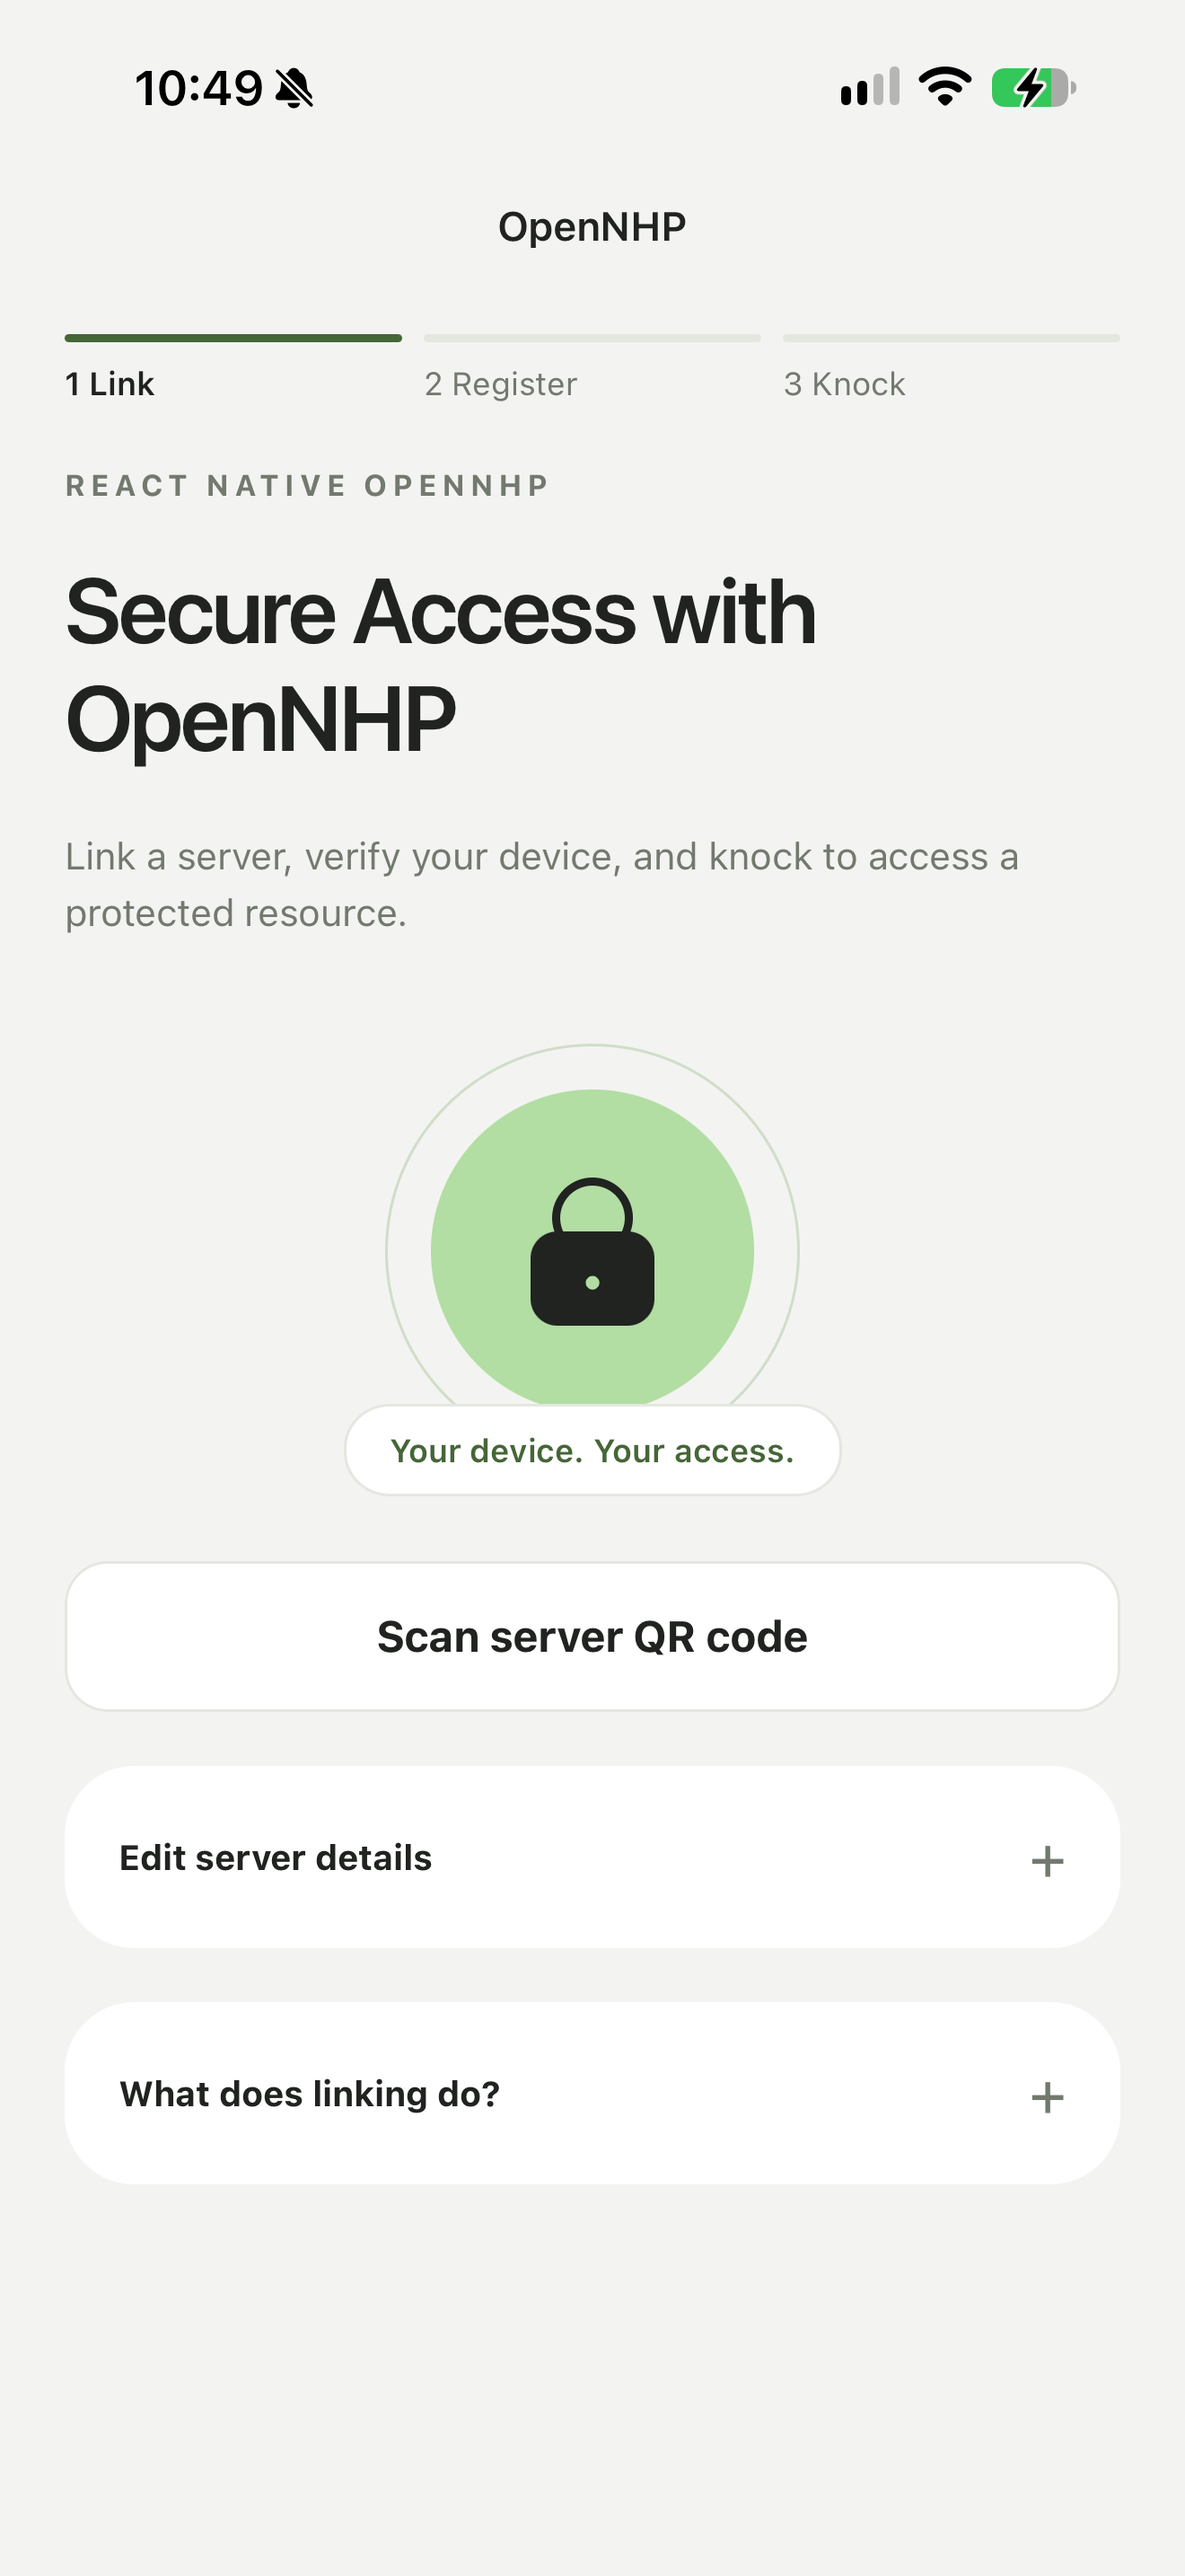
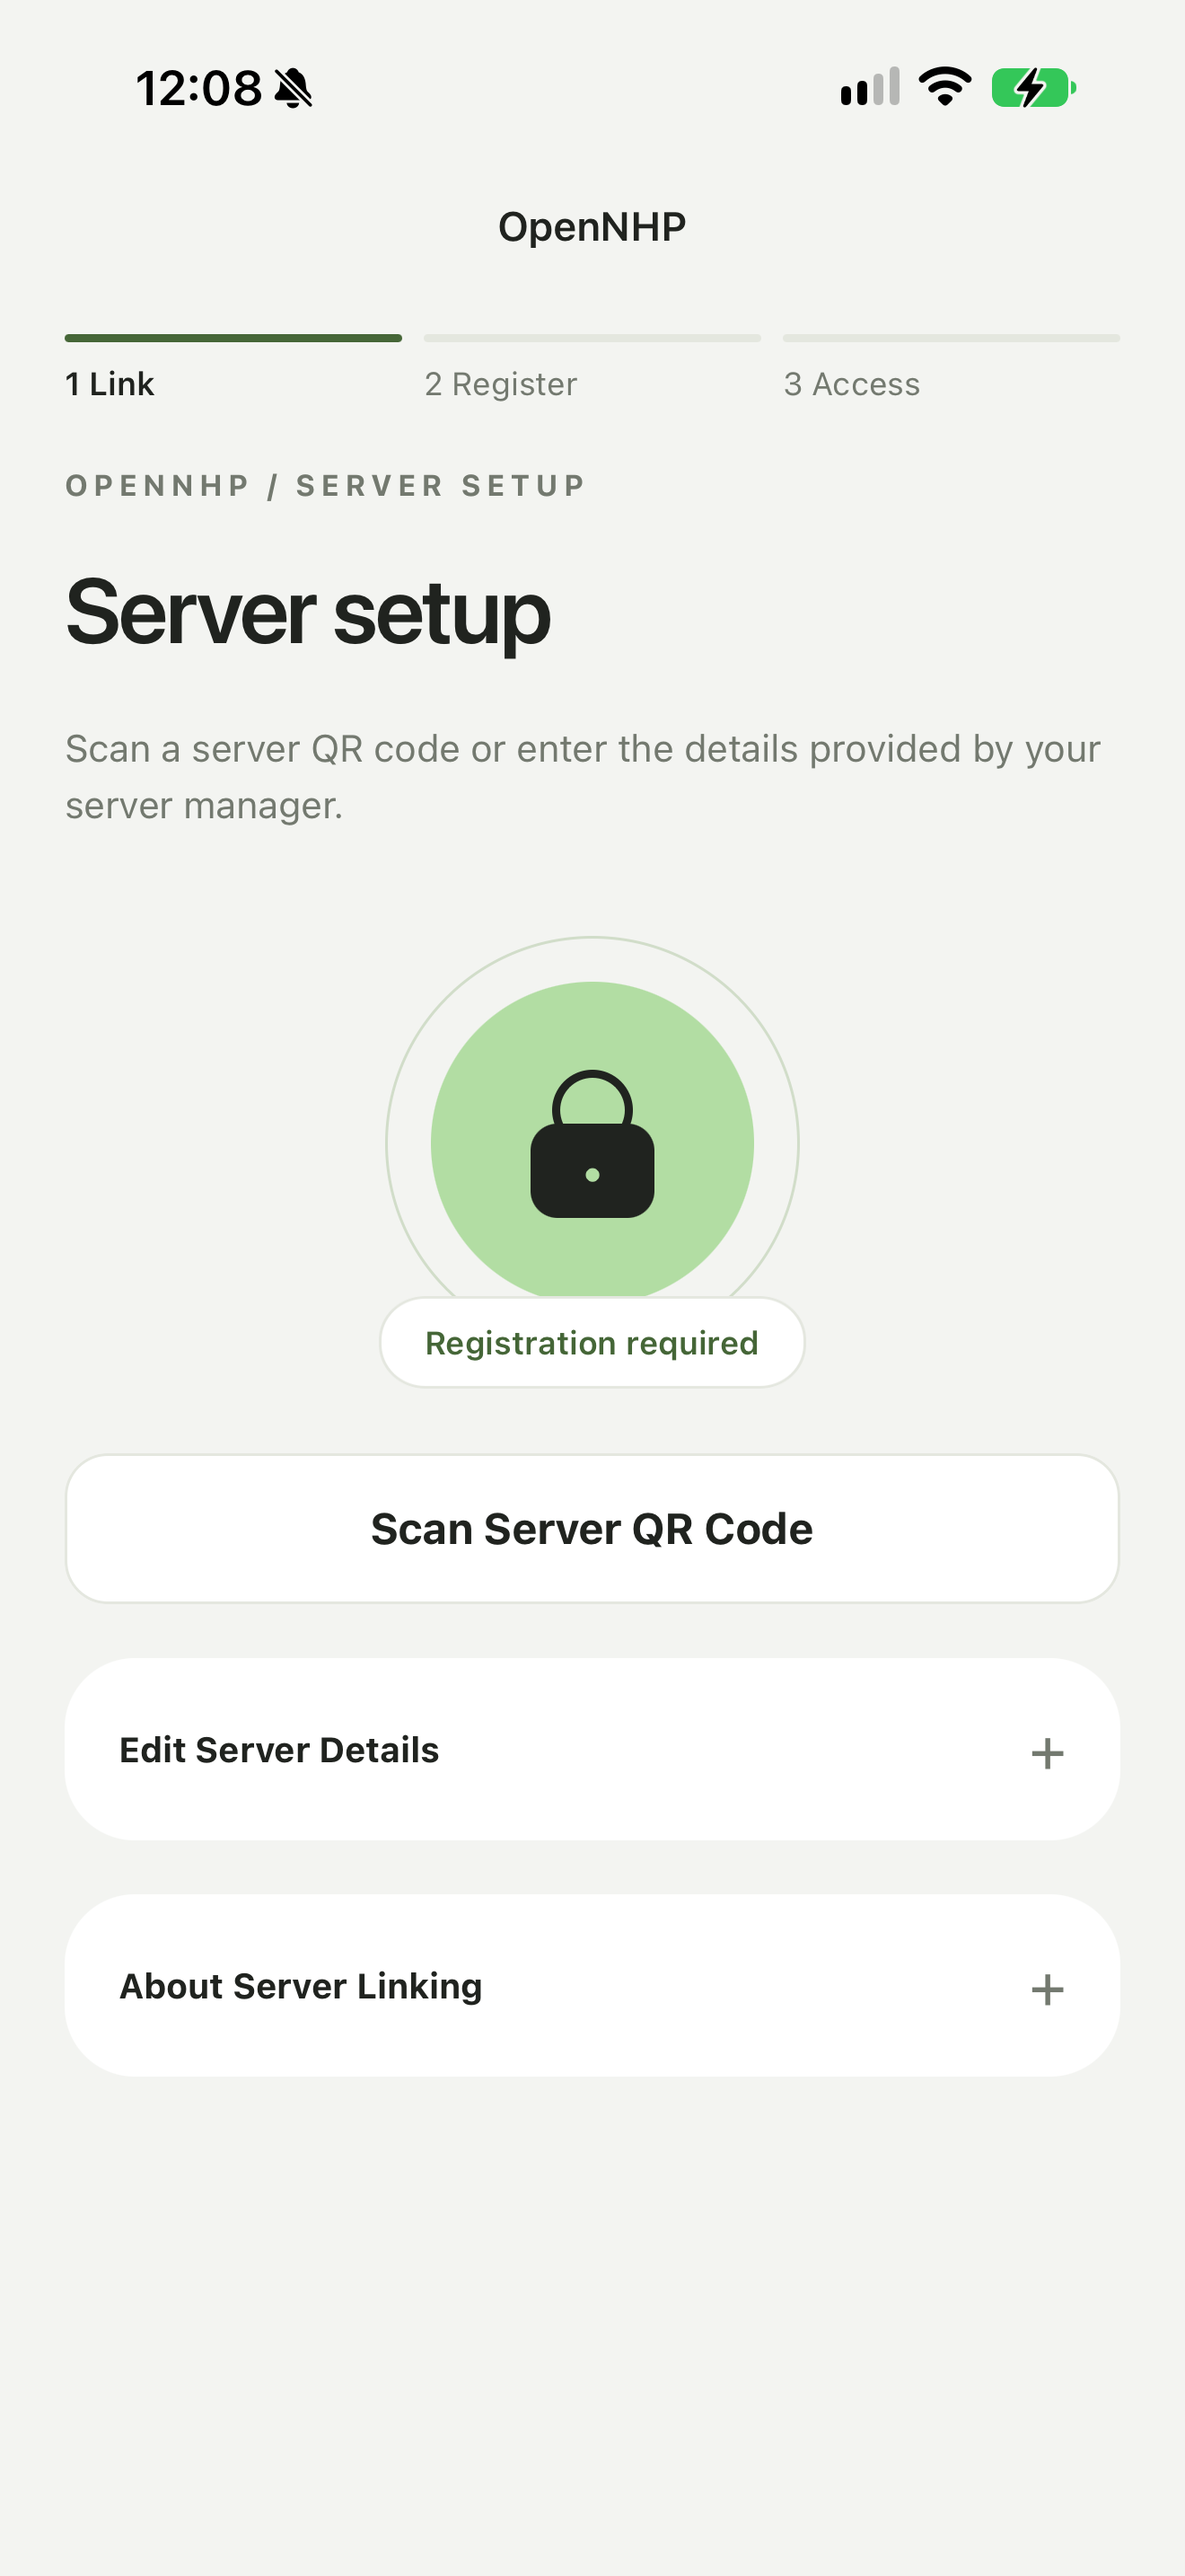
Better clean up

diff --git a/README.md b/README.md
@@ -39,7 +39,7 @@ Link a server, choose a registration method, and register the device with an ema
   </tbody>
 </table>
 
-<sub>Screenshots show an earlier demo build; current labels may differ. Select an image to view it at full size.</sub>
+<sub>Select an image to view it at full size.</sub>
 
 ## Contents
 
@@ -213,6 +213,29 @@ Follow its [Quickstart](https://github.com/OpenNHP/OpenNHP-Ubuntu-Installer#quic
 4. Review the server settings and choose **Link Server**. This button appears only when the required details are valid.
 
 Settings are stored on the device. Use **Unlink Server** under **Server & Device Details** to remove the linked server and its saved registration.
+
+<table>
+  <thead>
+    <tr>
+      <th width="50%">Confirm scanned details</th>
+      <th width="50%">Review before linking</th>
+    </tr>
+  </thead>
+  <tbody>
+    <tr>
+      <td align="center" valign="top">
+        <a href="docs/images/qr-confirmation.png"><img src="docs/images/qr-confirmation.png" alt="QR confirmation modal showing server address, port, service, resource, and server key" width="260" /></a>
+      </td>
+      <td align="center" valign="top">
+        <a href="docs/images/server-review.png"><img src="docs/images/server-review.png" alt="Server setup with scanned connection details and the Link Server button" width="260" /></a>
+      </td>
+    </tr>
+    <tr>
+      <td align="center">Verify the scanned information before accepting it.</td>
+      <td align="center">Link the server after reviewing its details.</td>
+    </tr>
+  </tbody>
+</table>
 
 ### QR package format
 
